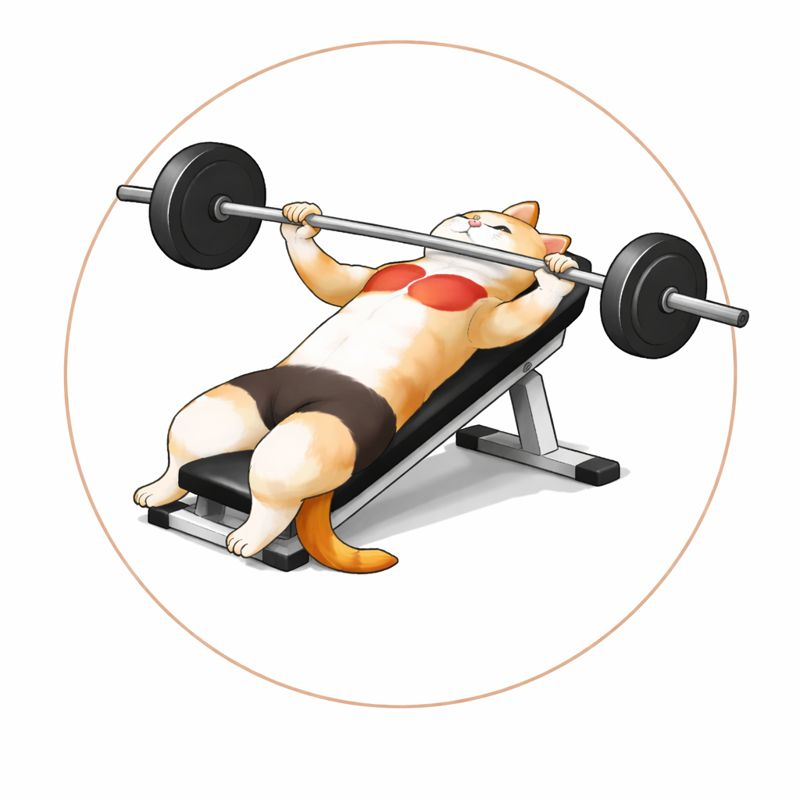
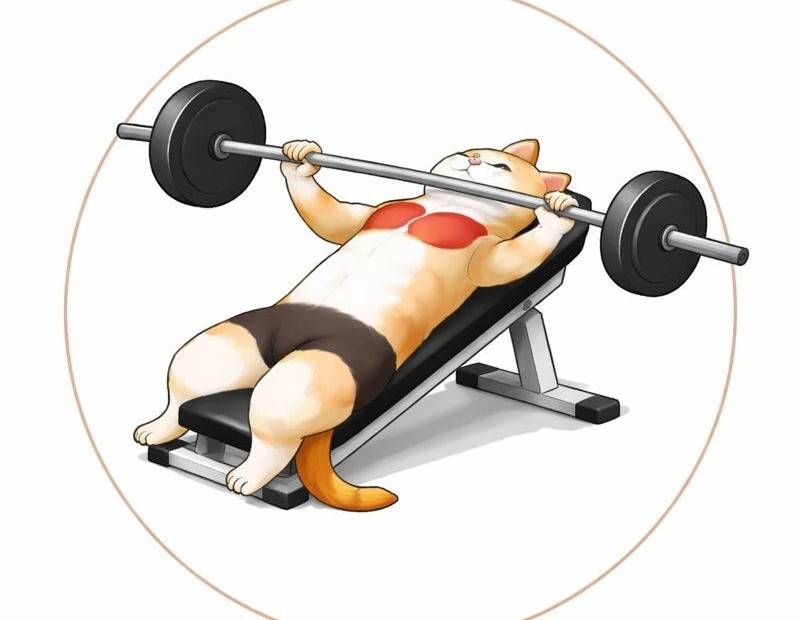
more advanced button settings

diff --git a/index.html b/index.html
@@ -26,13 +26,31 @@
                         <span class = "thumb">
                             <img src = "img/Barbell Bench Press.png" alt = "Barbell Bench Press" />
                         </span>
-                        <span class = "info">
+                        <span class = "name">
                             Bench Press
                         </span>
                     </button>
                 </li>
-                <li> <button type = "button"> Incline Bench Press </button> </li>
-                <li> <button type = "button"> Wide Bench Press </button> </li>
+                <li>
+                    <button type = "button" class = "exercise-btn">
+                        <span class = "thumb">
+                            <img src = "img/Inclined Barbell Bench Press.png" alt = "Incline Barbell Bench Press" />
+                        </span>
+                        <span class = "name">
+                            Incline Bench Press
+                        </span>
+                    </button>
+                </li>
+                <li>
+                    <button type = "button" class = "exercise-btn">
+                        <span class = "thumb">
+                            <img src="img/Barbell Wide Bench Press.jpeg" alt = "Wide Barbell Bench Press" />
+                        </span>
+                        <span class = "name">
+                            Wide Bench Press
+                        </span>
+                    </button>
+                </li>
             </ul>
             <h3> Dumbbell </h3>
             <ul class = "list-of-dumbbell-chest-exercises">

diff --git a/style.css b/style.css
@@ -157,10 +157,21 @@ main button:hover {
 .exercise-btn:active {
     transform: scale(0.98);     /* Makes button shrink a little bit when being clicked */
 }
-.thumb {
-    width: 64px;
-    height: 64px;
-    border-radius: 50%;
-    overflow: hidden;
+.thumb {        /* Editing the frame of the picture */
+    width: 64px;        /* Set container's width to 64px */
+    height: 64px;       /* Set container's height to 64px */
+    border-radius: 50%;    /* Circle that is half of the size of teh square */
+    overflow: hidden;       /* Crop the images ourside the circle */
+    border: 1px solid gold;
+    flex: 0 0 64px;     /* The .thumb should always stay at 64px wide and never shrink */
     background-color: white;
+}
+.thumb img {        /* Editing the actual picture */
+    width: 100%;        /* Be as wide as the parent (.thumb) */
+    height: 100%;       /* Be as tall as the parent (.thumb) */
+    object-fit: cover;      /* Fill the entire container */
+}
+.name {
+    font-size: 18px;
+    font-weight: 500;
 }
